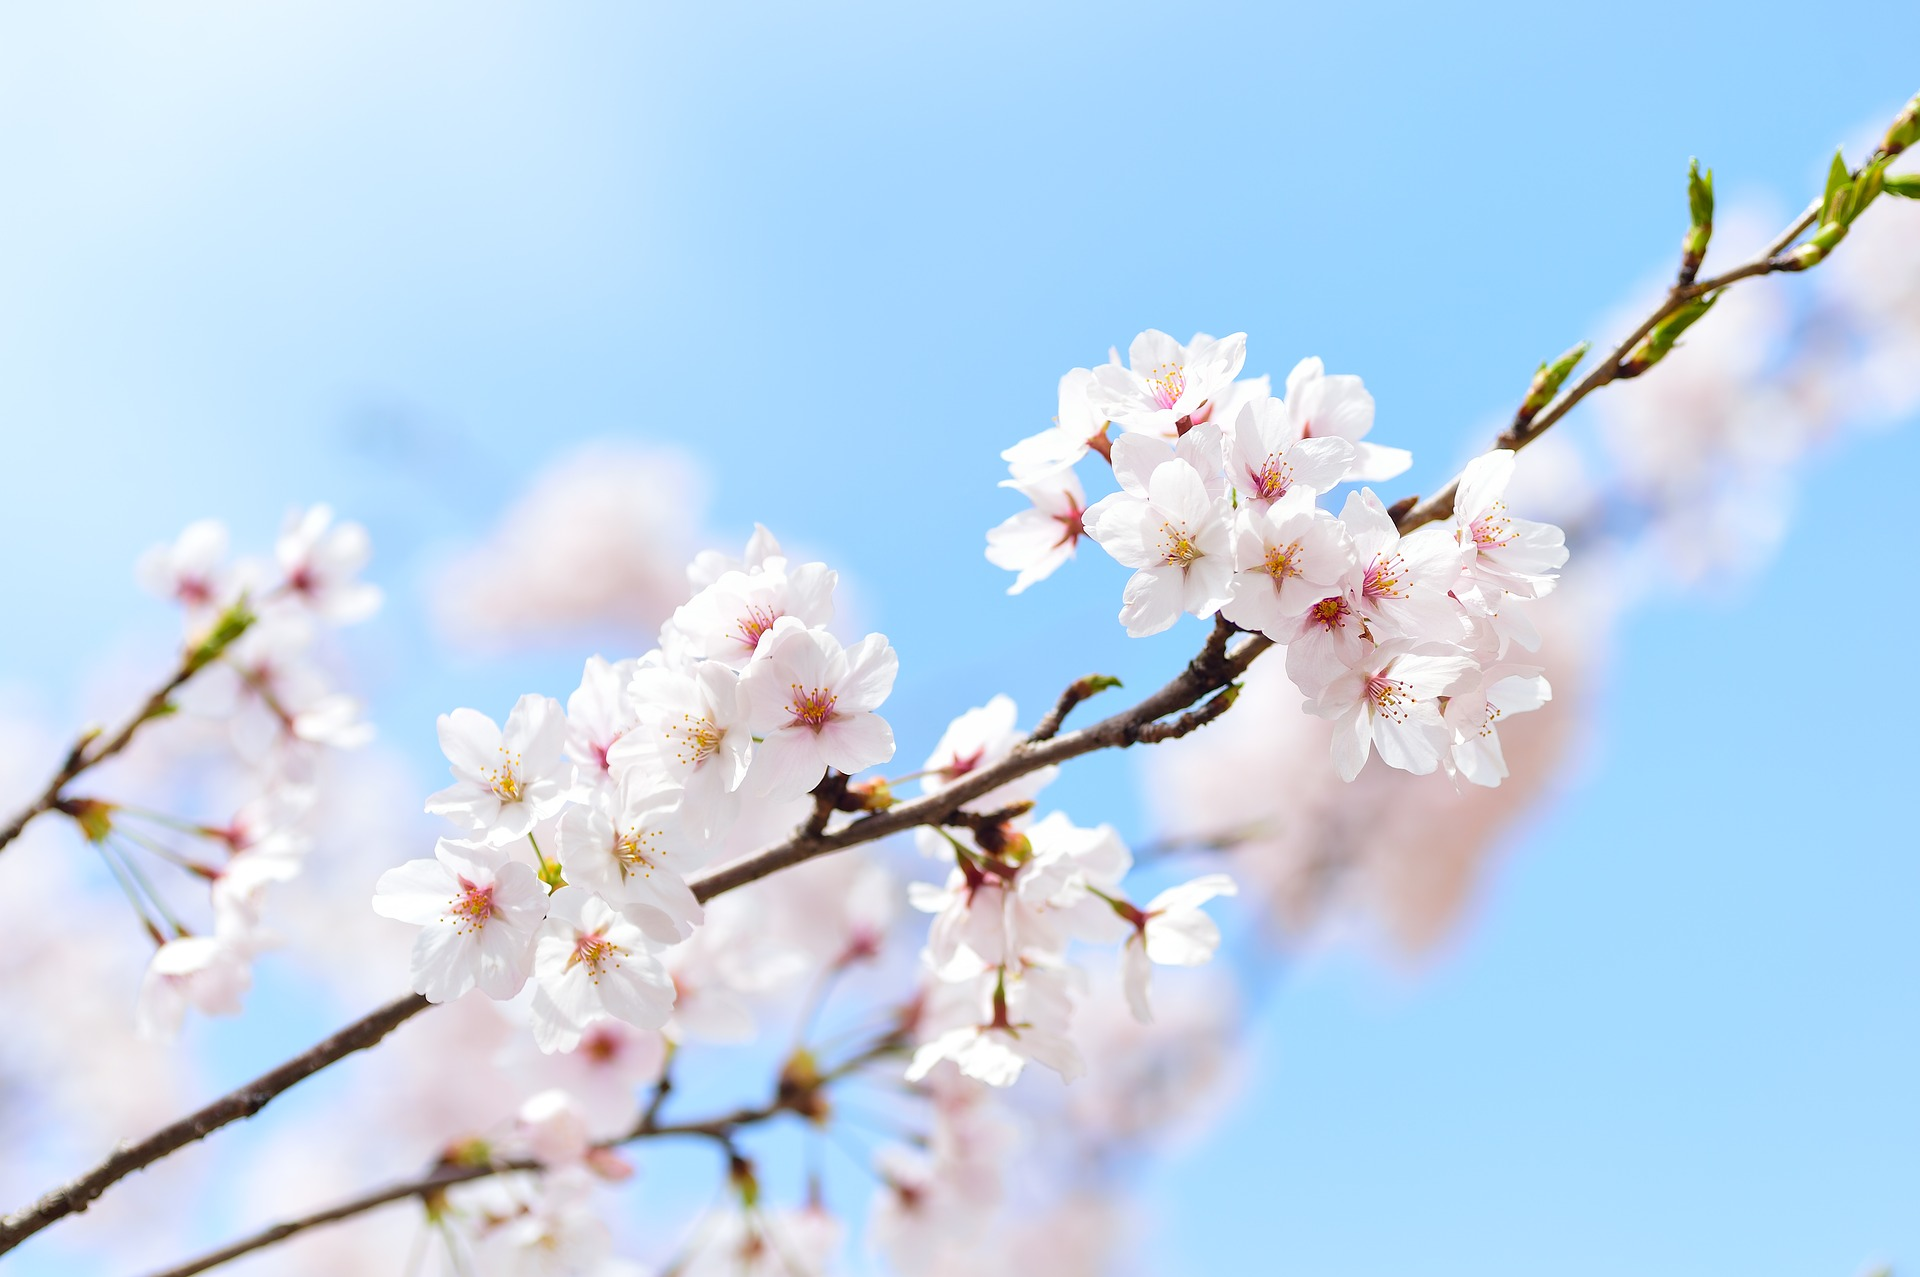
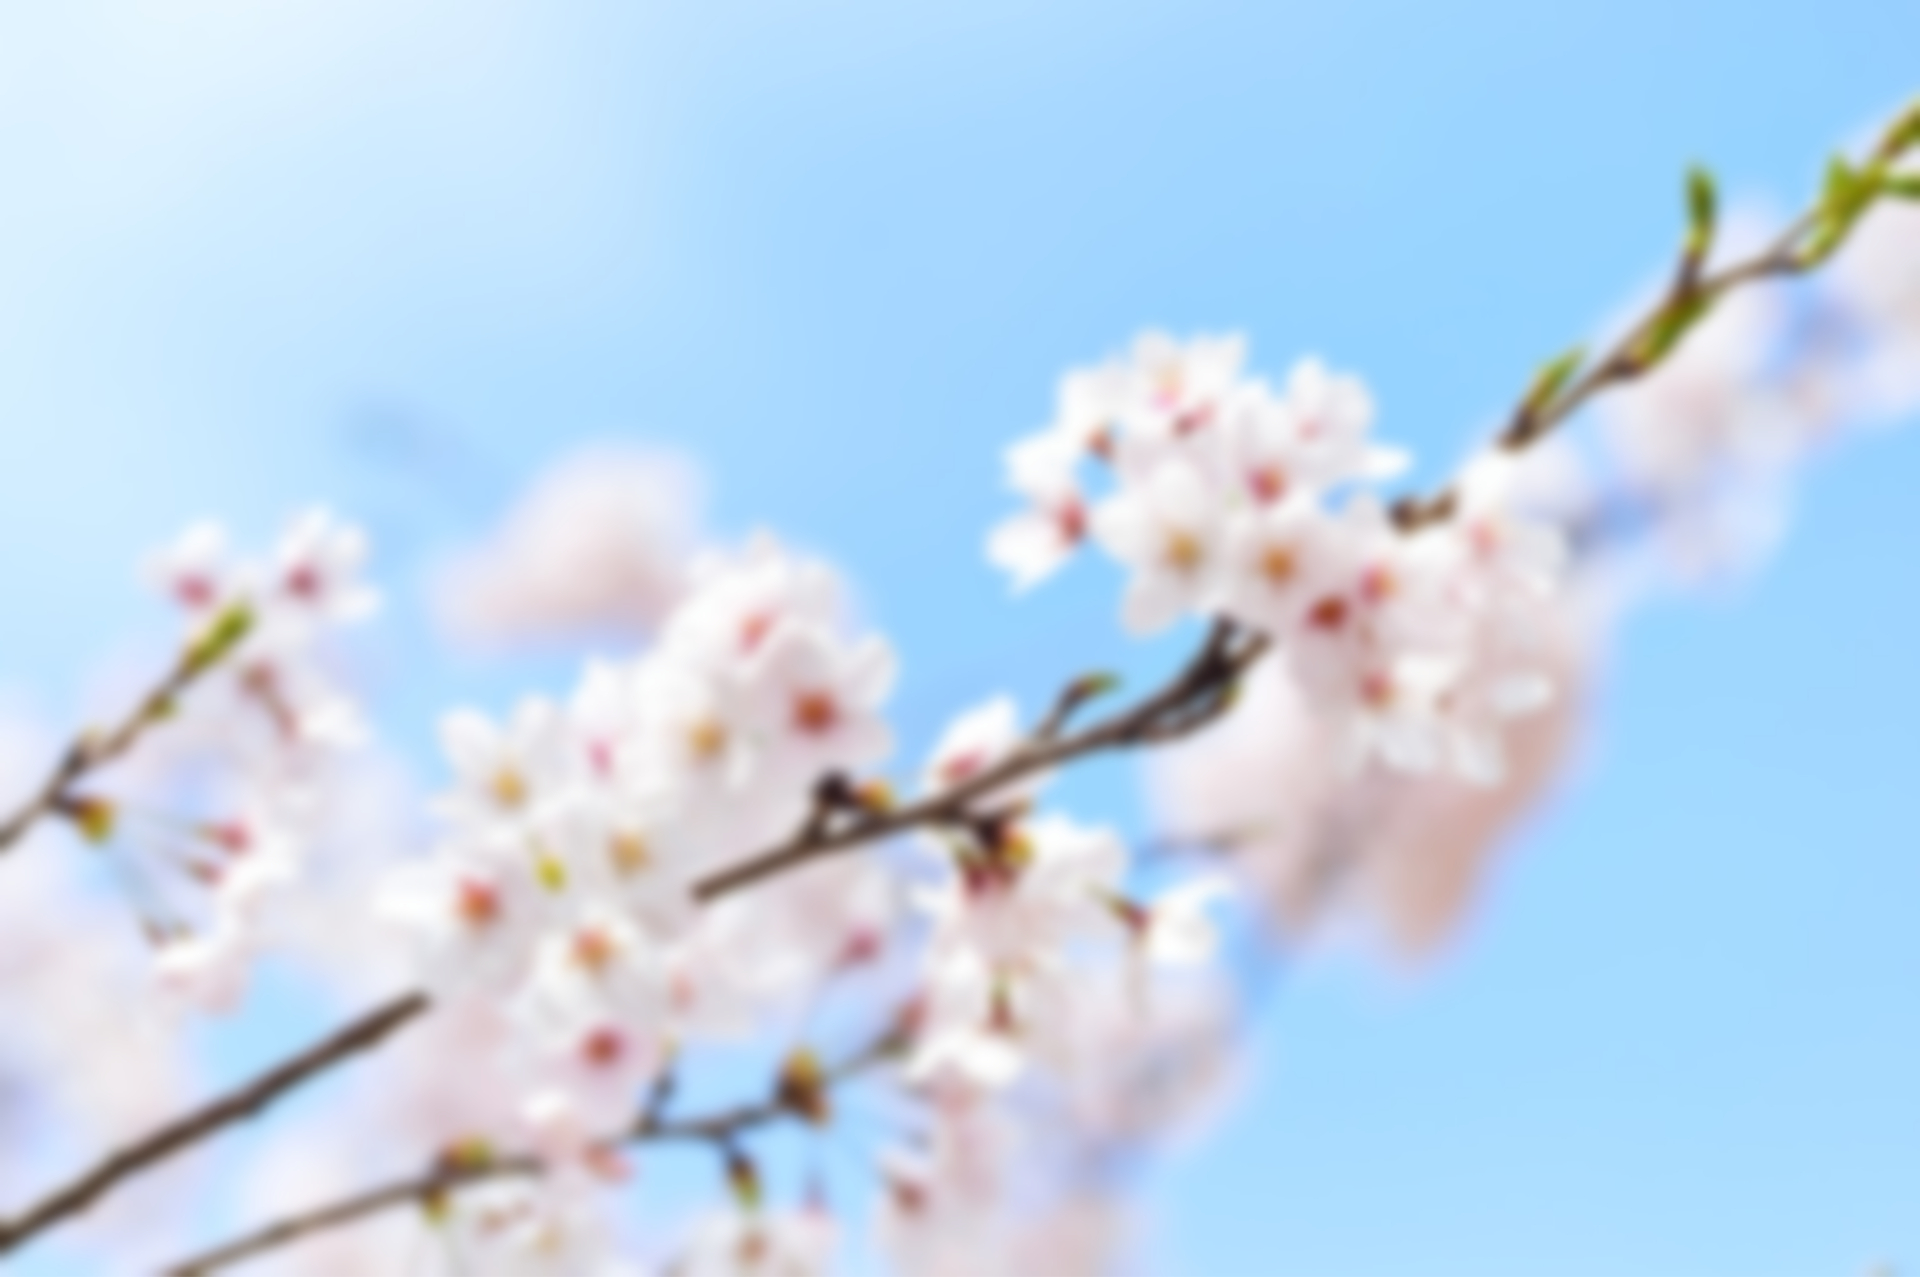
blurred masthead, added projects

diff --git a/index.html b/index.html
@@ -57,7 +57,7 @@
     <div class="container text-center my-auto">
       <h1 class="mb-1">Jorel Olan</h1>
       <h3 class="mb-5">
-        <em>Machine Learning Engineer |  Software Engineer</em>
+        <em>Software Engineer | Machine Learning Engineer</em>
       </h3>
       <a class="btn btn-primary btn-xl js-scroll-trigger" href="#about">About Me</a>
     </div>
@@ -70,7 +70,7 @@
       <div class="row">
         <div class="col-lg-10 mx-auto">
           <h2>I like pretty languages and challenging problems.</h2>
-          <p class="lead mb-2">Software Engineer, Machine Learning Engineer, and team player. My interests include applied AI, data science, and solving challenging problems.
+          <p class="lead mb-2">Software Engineer, Machine Learning Engineer, and team player. My interests include backend development, data science, machine learning, and solving challenging problems.
           <p class="lead mb-2">Computer Science (BS, est. Spring 2020) at The University of Texas at Dallas.
               <p class="lead mb-2">English, Spanish, 日本語, 中文
             <p></p>
@@ -95,7 +95,7 @@
           <h4>
             <strong>Programming</Object></strong>
           </h4>
-          <p class="text-faded mb-0">Experience in Python, Java, C++, C, Ruby, Go, and OOP paradigms.</p>
+          <p class="text-faded mb-0">Experience in Python, Java, C/C++, Go, Scala, Ruby, and JS. Frameworks like Spring, Django, and Vue</p>
         </div>
         <div class="col-lg-3 col-md-6 mb-5 mb-lg-0">
           <span class="service-icon rounded-circle mx-auto mb-3">
@@ -104,7 +104,7 @@
           <h4>
               <strong>SQL + RDBMS</strong>
           </h4>
-          <p class="text-faded mb-0">mySQL, Spring JDBC, AWS, and Java experience with relational databases.</p>
+          <p class="text-faded mb-0">Spring JDBC, Hibernate, Spark, mySQL, PostgreSQL, and AWS deployment experience.</p>
         </div>
         <div class="col-lg-3 col-md-6 mb-5 mb-md-0">
           <span class="service-icon rounded-circle mx-auto mb-3">
@@ -113,7 +113,7 @@
           <h4>
             <strong>Machine Learning</strong>
           </h4>
-          <p class="text-faded mb-0">Real projects with sci-kit learn, pandas, numpy, and more.</p>
+          <p class="text-faded mb-0">Real projects with Sci-kit learn, pandas, numpy, and Spark</p>
         </div>
         <div class="col-lg-3 col-md-6">
           <span class="service-icon rounded-circle mx-auto mb-3">
@@ -136,6 +136,28 @@
         <h2 class="mb-5">Recent Projects</h2>
       </div>
       <div class="row no-gutters">
+          <div class="col-lg-6">
+              <a class="portfolio-item" href="https://github.com/jaolan/utauta" target="_blank">
+                <span class="caption">
+                  <span class="caption-content">
+                    <h2>utauta</h2>
+                    <p class="mb-0">J-Pop Album Database website using a RESTful API. Backend repo.</p>
+                  </span>
+                </span>
+                <img class="img-fluid" src="img/portfolio-3.jpg" alt="">
+              </a>
+            </div>
+            <div class="col-lg-6">
+              <a class="portfolio-item" href="https://github.com/jaolan/video-browser" target="_blank">
+                <span class="caption">
+                  <span class="caption-content">
+                    <h2>Video-Browser</h2>
+                    <p class="mb-0">A Vue video browser utilizing YouTube's API.</p>
+                  </span>
+                </span>
+                <img class="img-fluid" src="img/portfolio-4.png" alt="">
+              </a>
+            </div>
         <div class="col-lg-6">
           <a class="portfolio-item" href="https://github.com/jaolan/random-forest-knn" target="_blank">
             <span class="caption">
@@ -158,29 +180,7 @@
             <img class="img-fluid" src="img/portfolio-2.jpg" alt="">
           </a>
         </div>
-        <div class="col-lg-6">
-          <a class="portfolio-item" href="#">
-            <span class="caption">
-              <span class="caption-content">
-                <h2>p2sync</h2>
-                <p class="mb-0">A work-in-progress website project with a partner! Coming soon.</p>
-              </span>
-            </span>
-            <img class="img-fluid" src="img/portfolio-3.jpg" alt="">
-          </a>
-        </div>
-        <!--<div class="col-lg-6">
-          <a class="portfolio-item" href="#">
-            <span class="caption">
-              <span class="caption-content">
-                <h2>Workspace</h2>
-                <p class="mb-0">A yellow workspace with some scissors, pencils, and other objects.</p>
-              </span>
-            </span>
-            <img class="img-fluid" src="img/portfolio-4.jpg" alt="">
-          </a>
-        </div>
-      -->
+        
       </div>
     </div>
   </section>

diff --git a/css/stylish-portfolio.css b/css/stylish-portfolio.css
@@ -91,6 +91,11 @@ h6 {
   display: table;
   width: 100%;
   height: auto;
+  -webkit-filter: blur(5px);
+  -moz-filter: blur(5px);
+  -ms-filter: blur(5px);
+  -o-filter: blur(5px);
+  filter: blur(5px);
   padding-top: 8rem;
   padding-bottom: 8rem;
   background: -webkit-gradient(linear, left top, right top, from(rgba(255, 255, 255, 0.1)), to(rgba(255, 255, 255, 0.1))), url("../img/bg-masthead.jpg");
